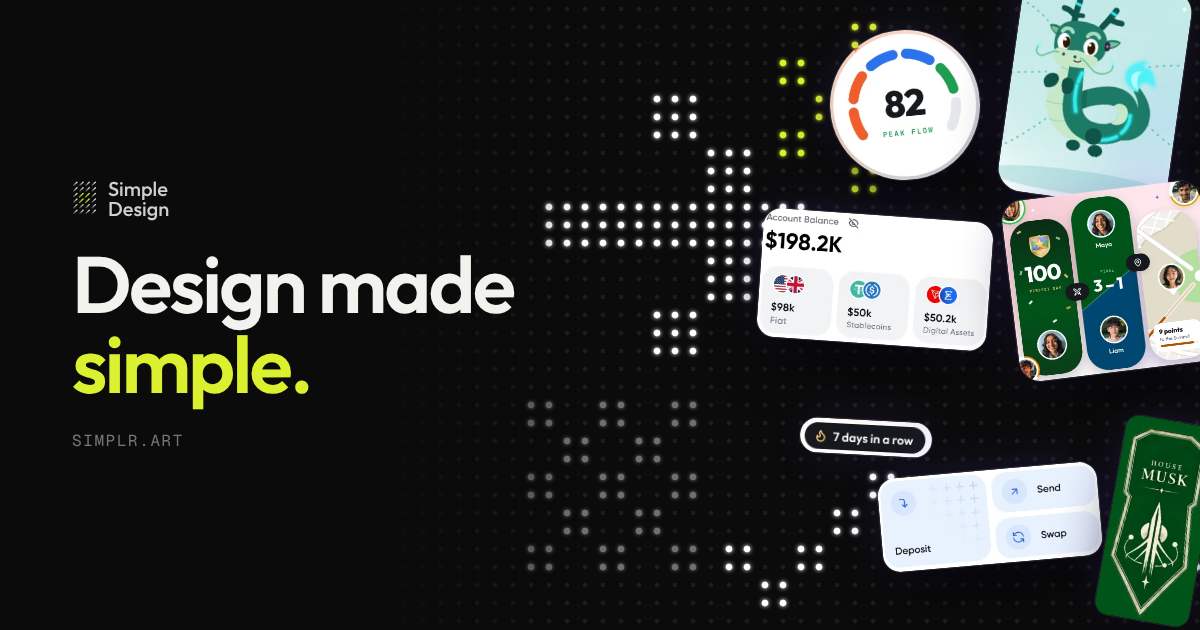
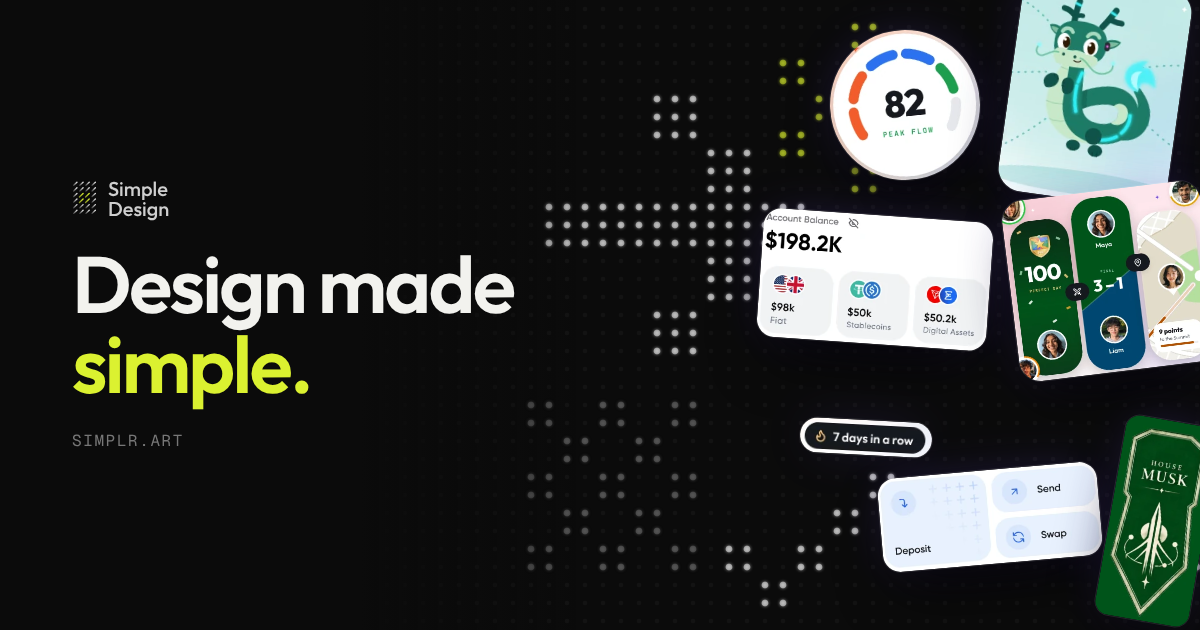
OG: background dots at half opacity
Claude-Session: https://claude.ai/code/session_01RVoWqTW1oduawufwQuLqEN

diff --git a/og/og.html b/og/og.html
@@ -30,5 +30,5 @@ function stamp(name,cx,cy,scale,col){const m=G[name];m.forEach((r,j)=>[...r].for
 stamp('arrow',30,5,3,'#ffffff');stamp('star',43,1,2,'#dbf130');stamp('grid',29,22,2,'#6f6f6f');stamp('check',40,24,2,'#ffffff');stamp('quote',43,13,1,'#7b5cff');stamp('star',62,28,1,'#ffffff');stamp('grid',56,9,1,'#dbf130');
 for(let i=0;i<cols;i++)for(let j=0;j<rows;j++){const k=i+','+j;const px=i*S+S/2,py=j*S+S/2;
  const col=lit.get(k); x.beginPath();x.arc(px,py,col?3.4:2.4,0,Math.PI*2);
- if(col){x.fillStyle=col;x.shadowColor=col;x.shadowBlur=10}else{x.fillStyle='rgba(255,255,255,.07)';x.shadowBlur=0} x.fill();}
+ if(col){x.globalAlpha=.5;x.fillStyle=col;x.shadowColor=col;x.shadowBlur=6}else{x.globalAlpha=1;x.fillStyle='rgba(255,255,255,.035)';x.shadowBlur=0} x.fill();}
 </script></body></html>
